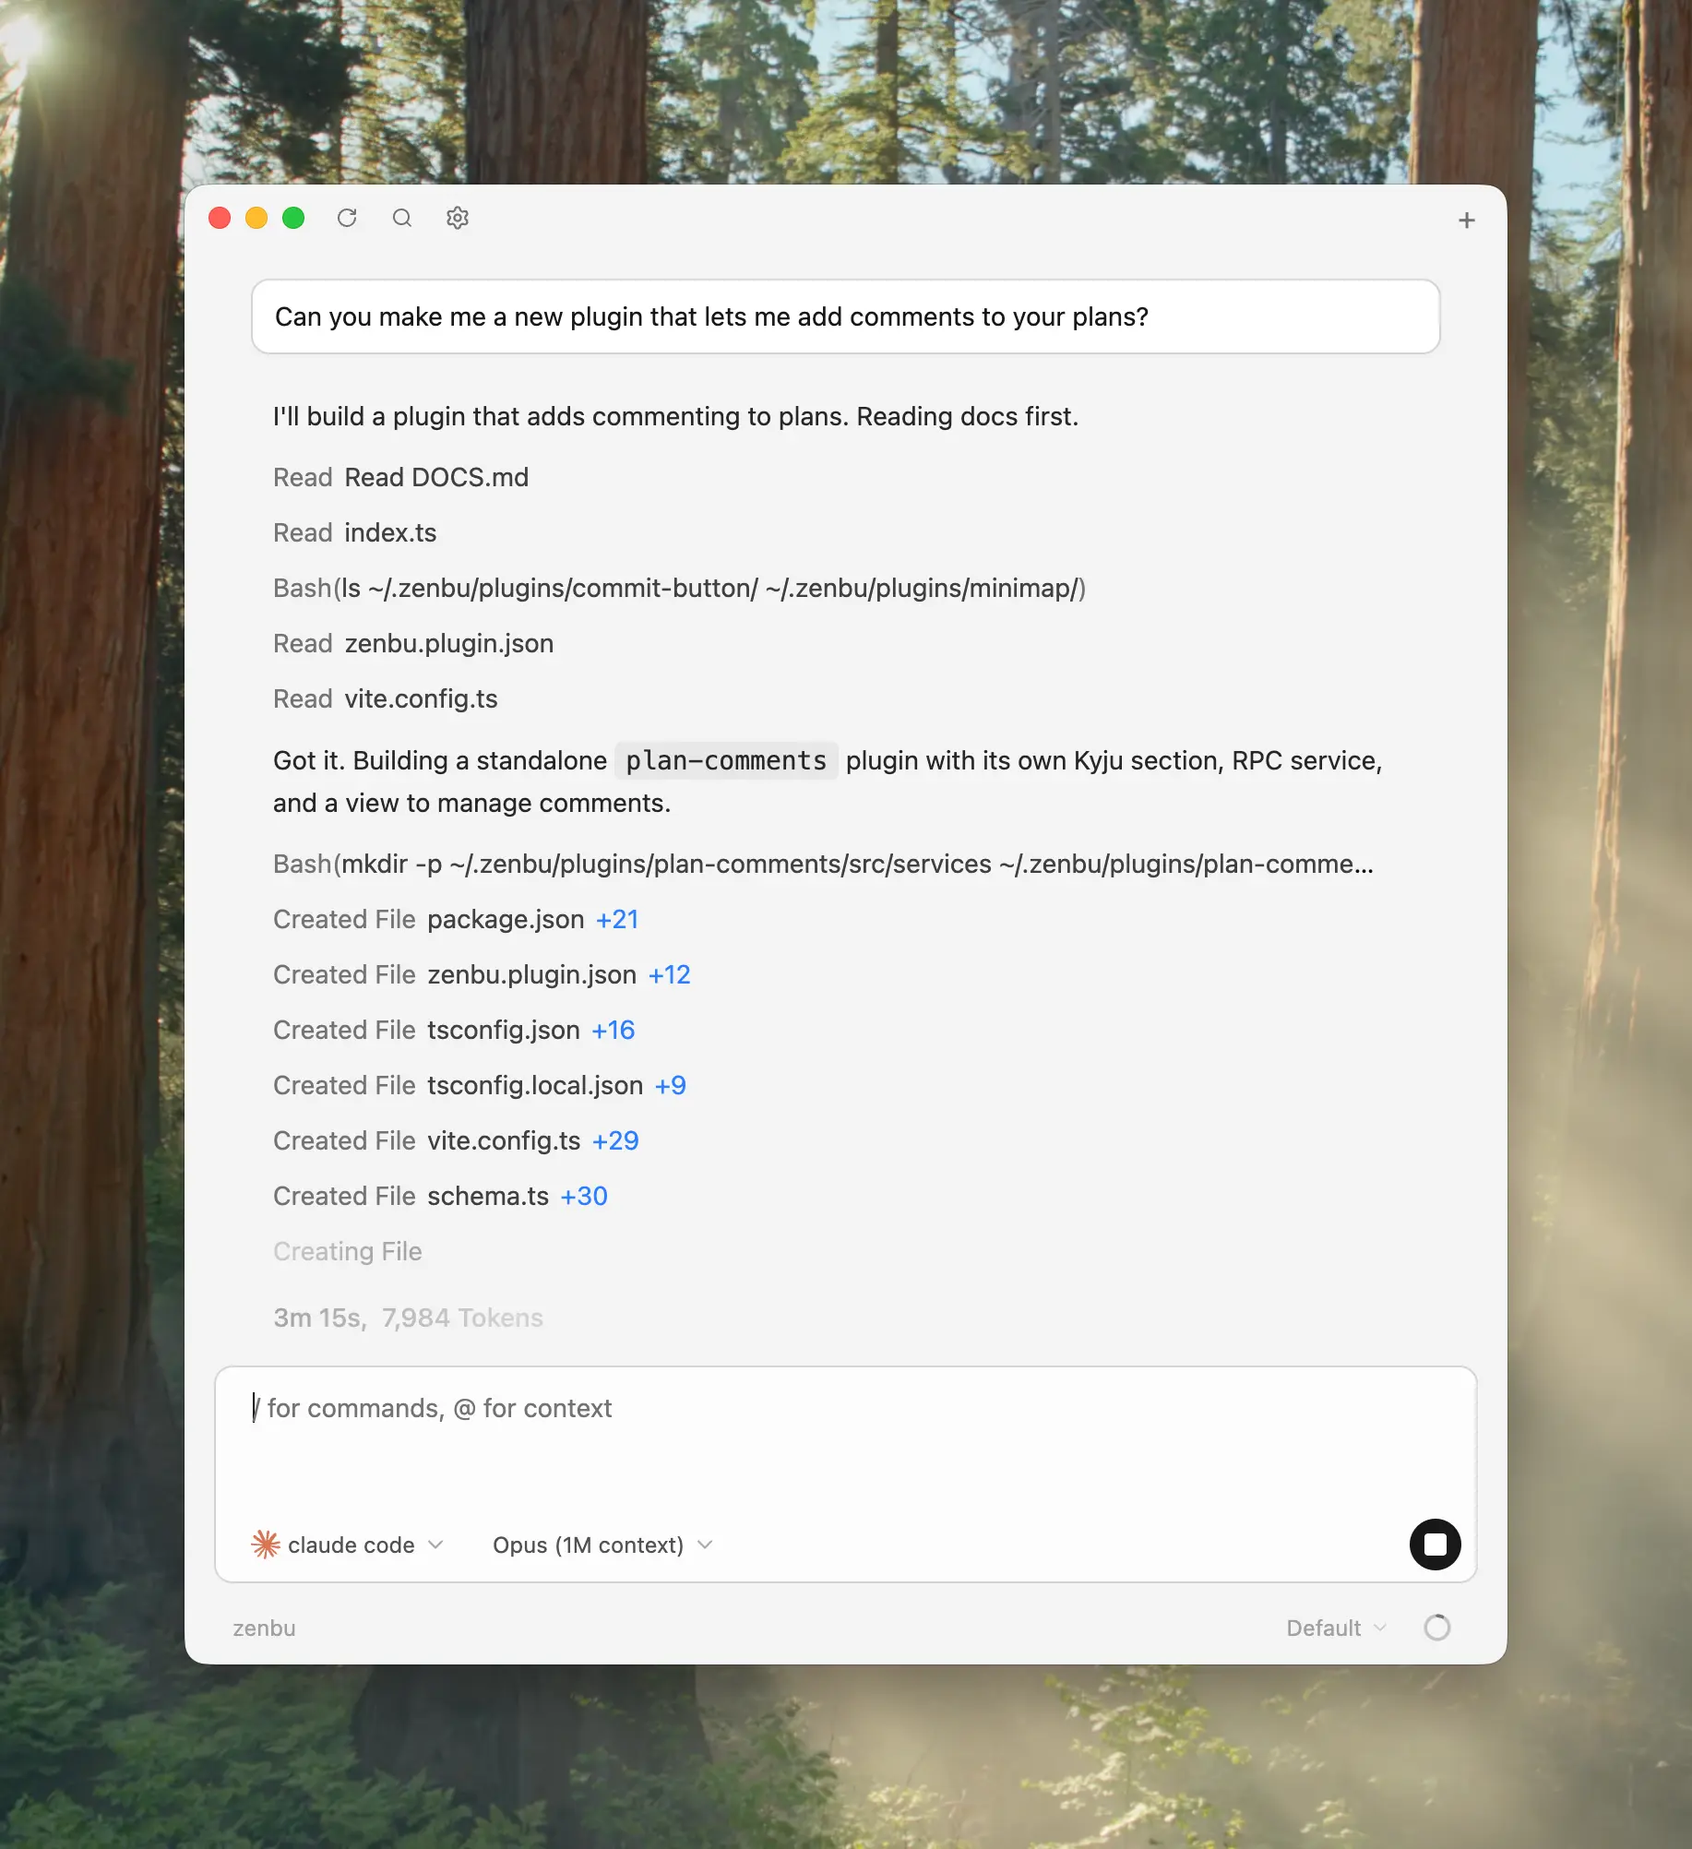
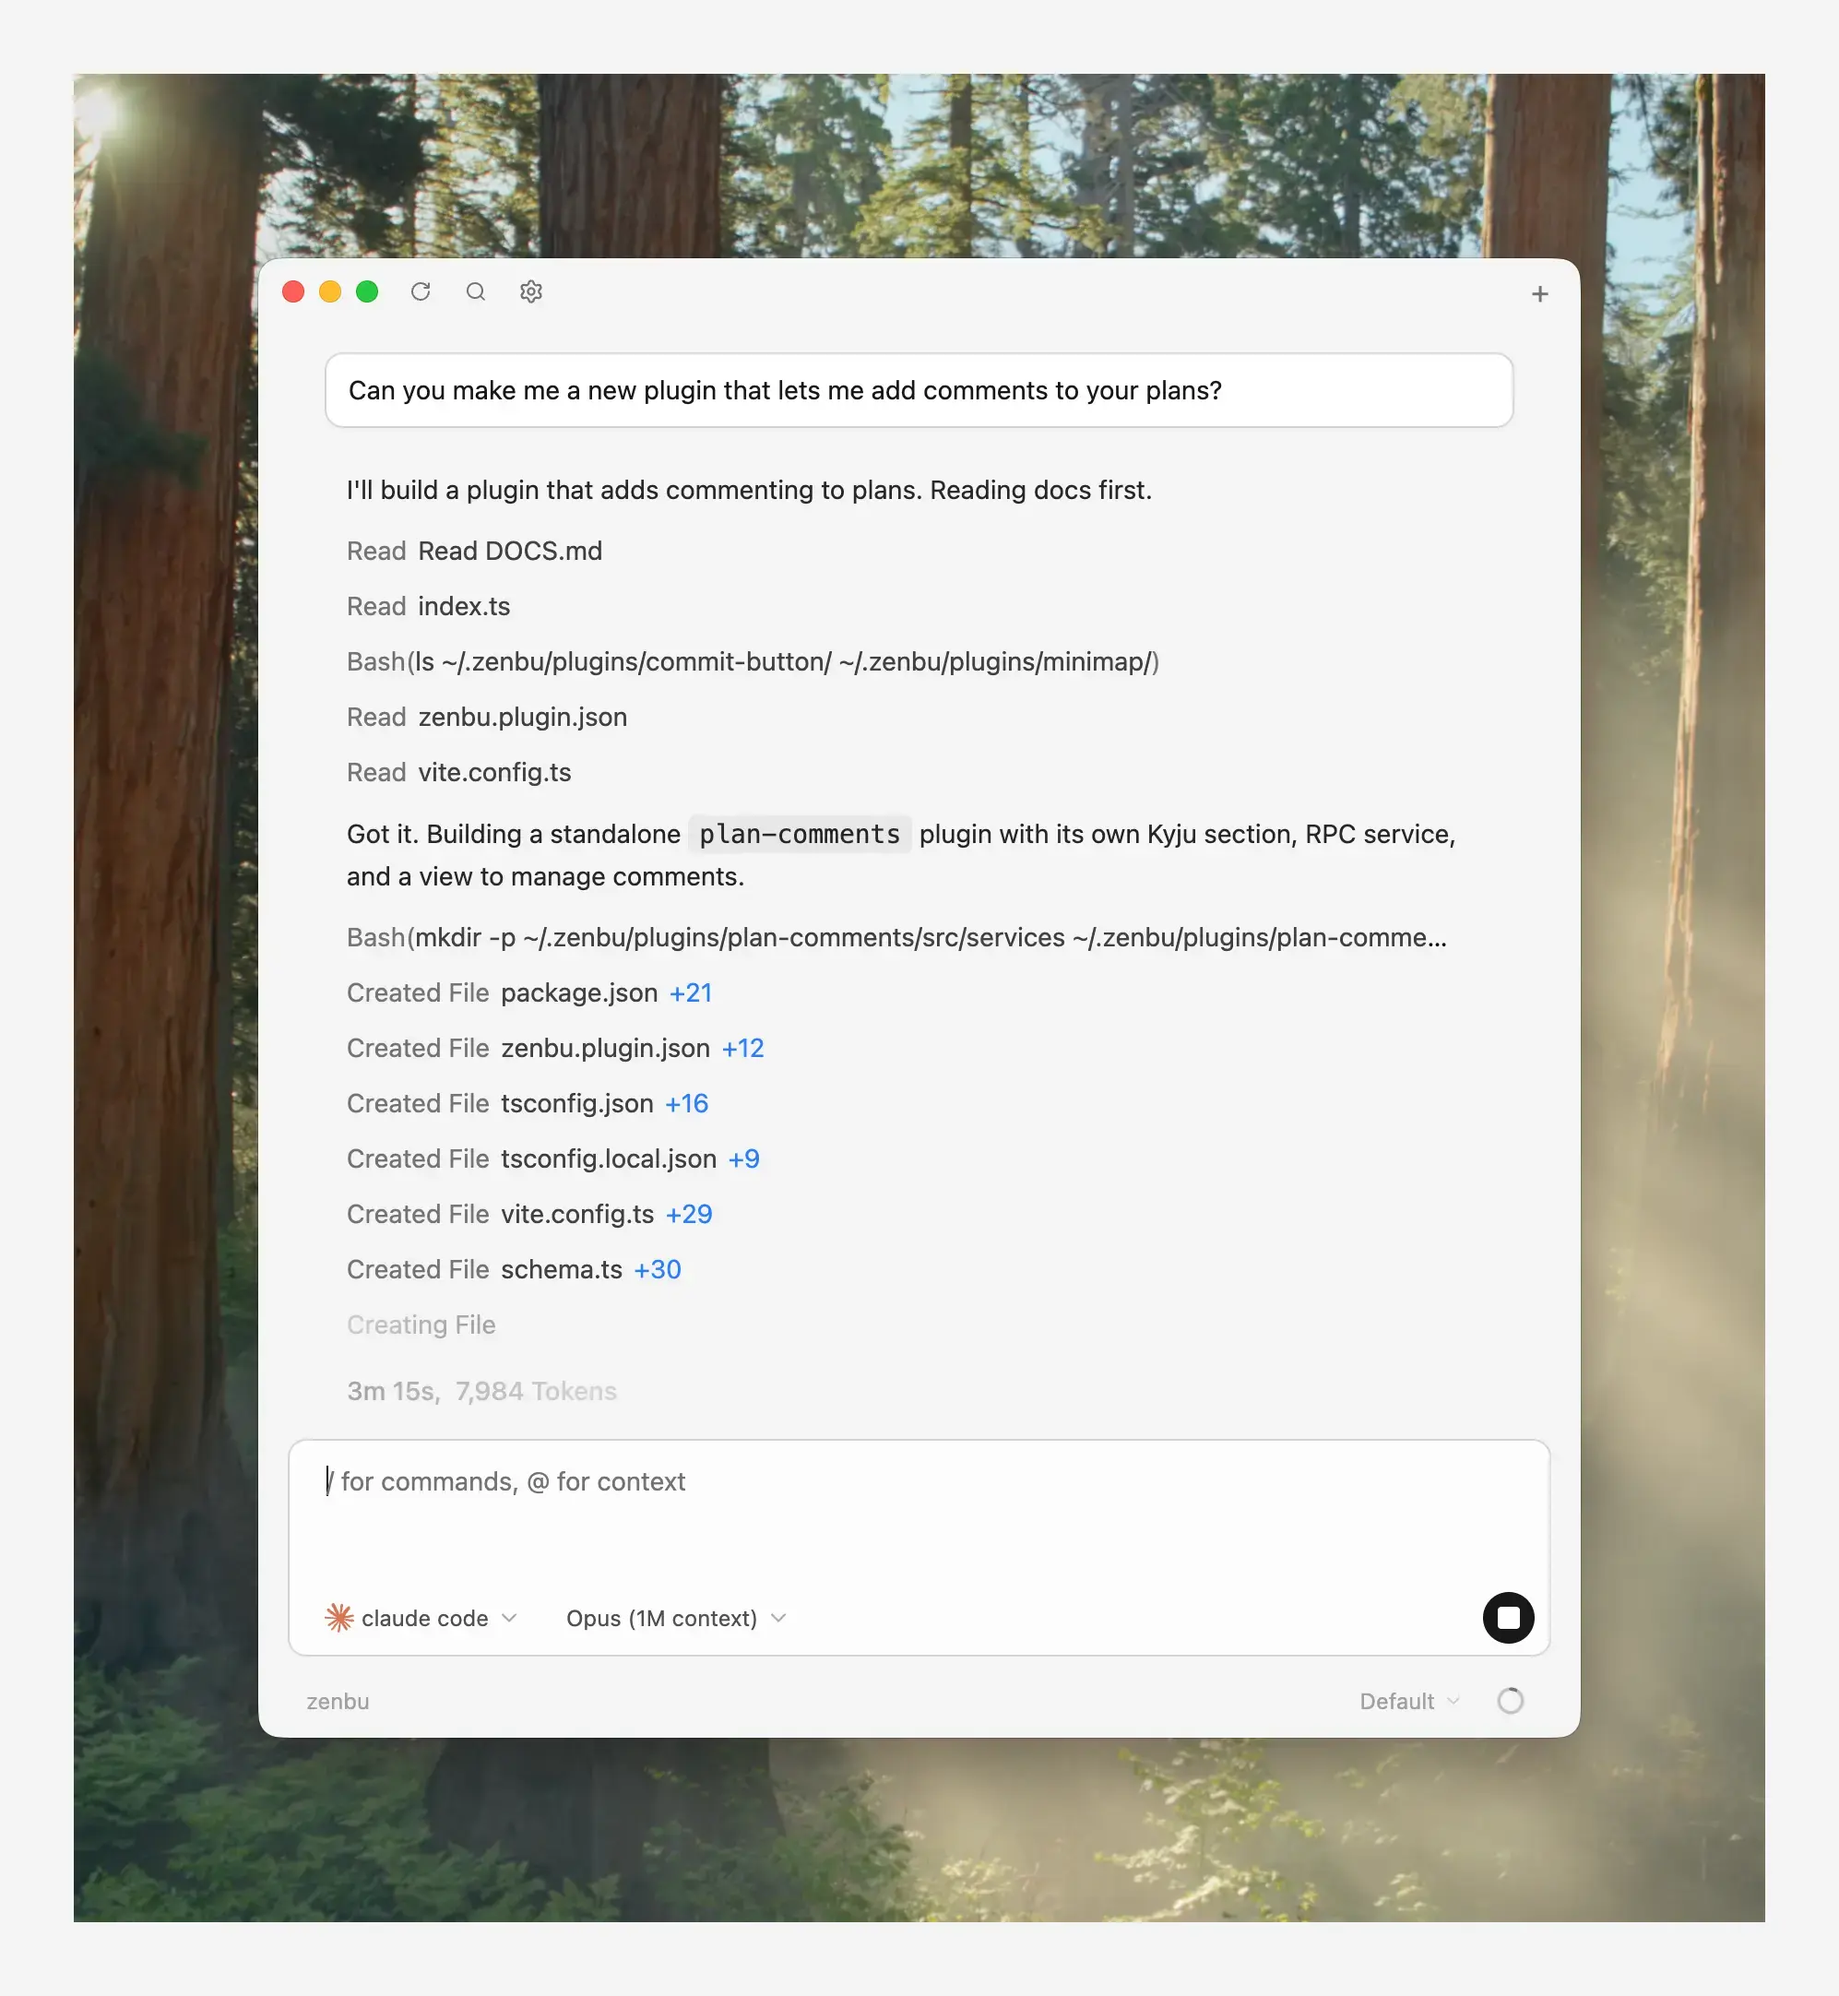
docs: center images with #F4F4F4 backdrop, point to /download, rename Agents section

diff --git a/README.md b/README.md
@@ -1,4 +1,6 @@
-<img src="./docs/logo.png" alt="Zenbu" width="72" />
+<p align="center">
+  <img src="./docs/logo.png" alt="Zenbu" width="180" />
+</p>
 
 # Zenbu
 
@@ -6,13 +8,15 @@
 
 The extensible coding agent GUI.
 
-![Zenbu](./docs/screenshot.webp)
+<p align="center">
+  <img src="./docs/screenshot.webp" alt="Zenbu" />
+</p>
 
 ## Installation
 
-Download the latest build from [zenbu.dev](https://zenbu.dev) or [GitHub Releases](https://github.com/zenbu-labs/zenbu/releases). Open the app and it sets itself up under `~/.zenbu/` on first launch.
+Download the latest build from [zenbu.dev/download](https://www.zenbu.dev/download) or [GitHub Releases](https://github.com/zenbu-labs/zenbu/releases). Open the app and it sets itself up under `~/.zenbu/` on first launch.
 
-## Agents
+## Configuring agents
 
 Zenbu ships with **codex**, **claude**, **cursor**, **opencode**, and **copilot** preinstalled. It assumes you've already authenticated whichever one you want to use through its own CLI. You can add more agents (that are [acp compatible](https://agentclientprotocol.com/get-started/registry)) inside Zenbu Settings.
 
